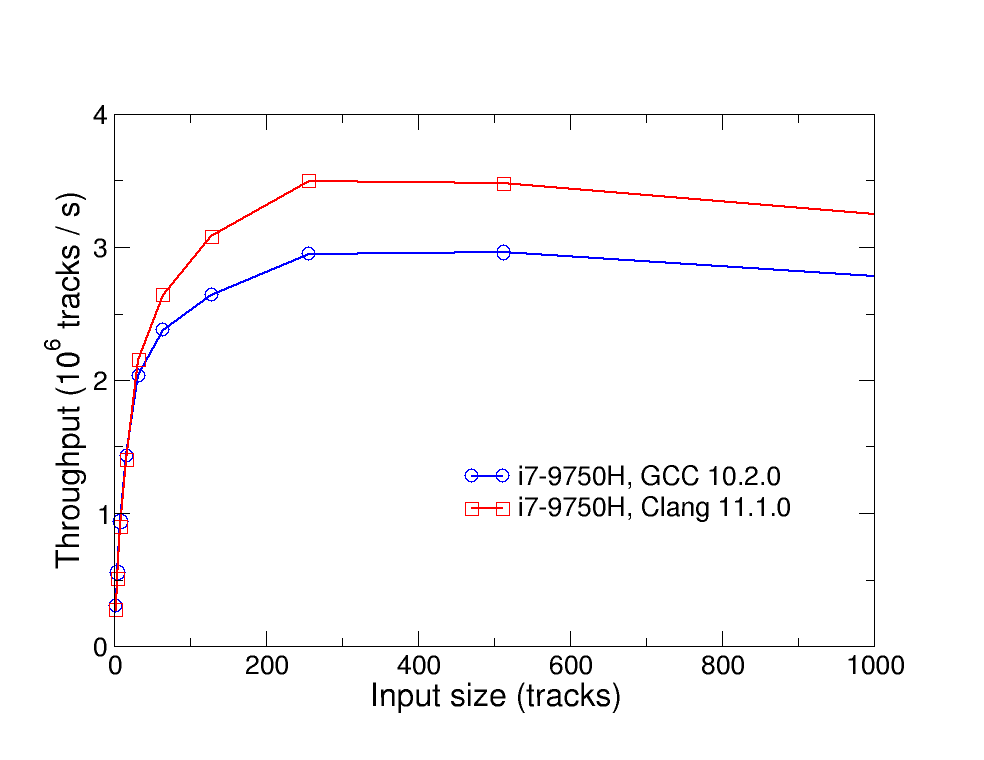
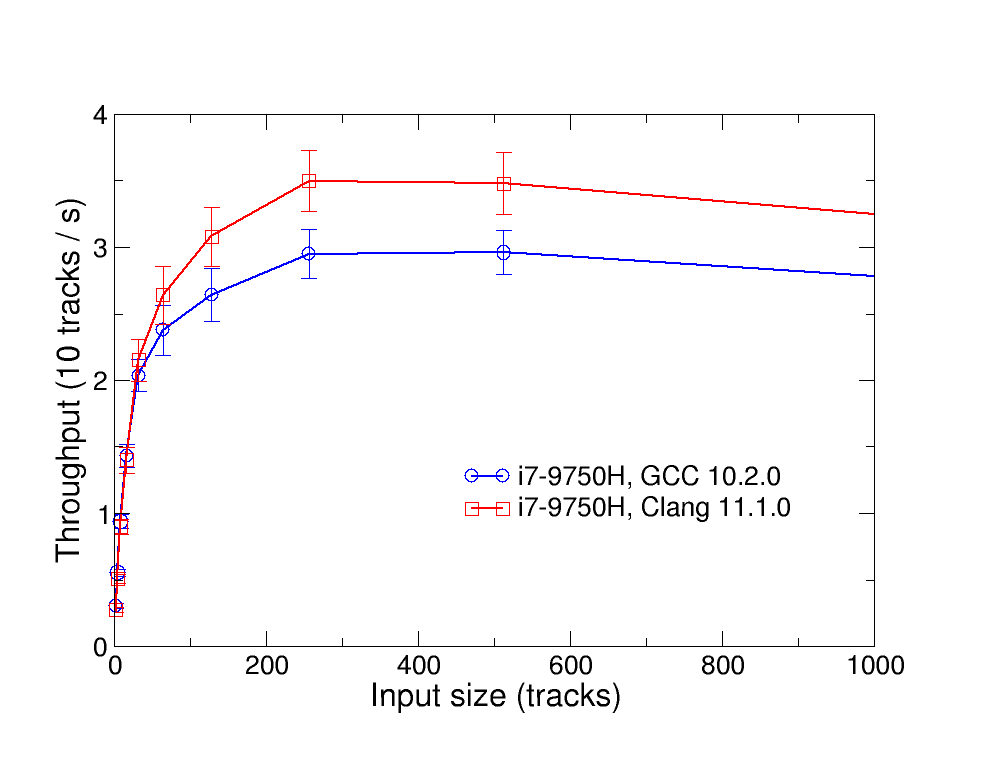
Add error bars to benchmark plot.

Changed region(s): [[0.0305, 0.2421, 0.0915, 0.7566]]

diff --git a/README.md b/README.md
@@ -106,11 +106,11 @@ You should see output like the following:
 
 The following figure shows benchmark results run on a ThinkPad P1 Gen 2 laptop
 with an [i7-9750H](https://www.intel.co.uk/content/www/uk/en/products/processors/core/i7-processors/i7-9750h.html)
-CPU.
+CPU. Error bars show the standard deviation of the throughput.
 
 ![Benchmarks.](https://github.com/lohedges/trackr/raw/main/benchmarks/benchmark_weetabix.png)
 
 Here Clang is found to outperform GCC with a peak throughput of around 3.5
-million tracks per second at an input size of around 250 tracks. For a larger
+million tracks per second at an input size of roughly 250 tracks. For a larger
 number of tracks, efficient parallelisation could likely be achieved by
 running in batches of this input size.
